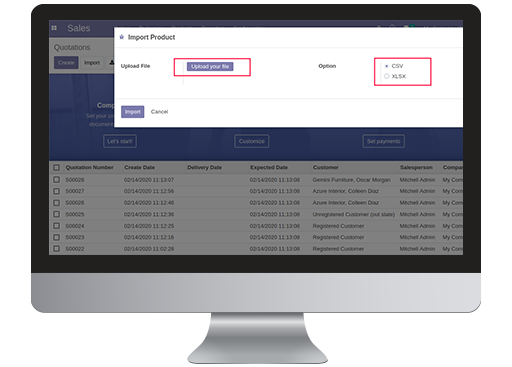
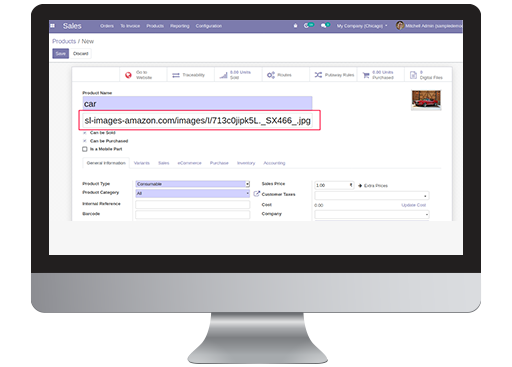
[CHG] Index Changed 'product_import'

diff --git a/product_import/static/description/index.html b/product_import/static/description/index.html
@@ -7,8 +7,8 @@
      style="margin:75px 0;position: relative;color: #000;background-position: center;background: #ffffff;border-bottom: 1px solid #e4e4e4; padding-bottom: 30px;">
     <div class="col-md-7 col-sm-12 col-xs-12" style="padding: 0px">
         <div style=" margin: 0 0 0px;padding: 20px 0 10;font-size: 23px;line-height: 35px;font-weight: 400;color: #000;border-top: 1px solid rgba(255,255,255,0.1);border-bottom: 1px solid rgba(255,255,255,0.11);text-align: left;">
-            <h1 style="font-size: 39px;font-weight: 600;margin: 0px !important;">Import Product From Excel</h1>
-            <h3 style="font-size: 21px;margin-top: 8px;position: relative;"> Import Product Using Excel/CSV</h3>
+            <h1 style="font-size: 39px;font-weight: 600;margin: 0px !important;">Product Image from URL</h1>
+            <h3 style="font-size: 21px;margin-top: 8px;position: relative;"> Product Image from URL and Path</h3>
         </div>
         <h2 style="font-weight: 600;font-size: 1.8rem;margin-top: 15px;">Key Highlights</h2>
         <ul style=" padding: 0 1px; list-style: none; ">
@@ -16,10 +16,7 @@
                     src="images/checked.png" style=" width: 22px; margin-right: 6px; " alt="check">Import product images from path and URL.
             </li>
             <li style="display: flex;align-items: center;padding: 8px 0;font-size: 18px;"><img
-                    src="images/checked.png" style=" width: 22px; margin-right: 6px; " alt="check">Import product barcode.
-            </li>
-            <li style="display: flex;align-items: center;padding: 8px 0;font-size: 18px;"><img
-                    src="images/checked.png" style=" width: 22px; margin-right: 6px; " alt="check">Load image in product using URL.
+                    src="images/checked.png" style=" width: 22px; margin-right: 6px; " alt="check">Load image in product from url field.
             </li>
         </ul>
     </div>
@@ -63,30 +60,20 @@
                         <hr style="margin-top: 0px;margin-bottom: 2%;border: 0;text-align: center;border-top: 3px solid #d21c22;width: 5%;">
                         <h3 class="oe_slogan"
                             style="text-align: center;font-size: 19px;width: 100%;margin: 0;margin-top: 14px;color: #000 !important;opacity: 1 !important;line-height: 31px;font-weight: 400;letter-spacing: .5px;margin-bottom: 21px;">
-                            With the help of this App you can easily load product image from URL in the product, import product image, barcode, name,  type,  and price from XLS/CSV file. You can prepare files with all the above mentioned details, if the product name is already exists then the product will not be created, It is mandatory to use given XLS format to import product
+                            With the help of this App you can easily load product image from URL and Path, You can also load images by pasting url in the field.
                         </h3>
                     </div>
                     <div class="px-3 pt-1 tab-pane fade " id="pills-home1" role="tabpanel"
                          aria-labelledby="
                   pills-home-tab">
                         <!-- feature tab-->
-                        <h2 style="font-weight: 600;text-align: center;width: 100%;">Import Product From Excel</h2>
+                        <h2 style="font-weight: 600;text-align: center;width: 100%;">Product Image from URL</h2>
                         <hr style="margin-top: 0px;margin-bottom: 2%;border: 0;text-align: center;border-top: 3px solid #d21c22;width: 5%;">
                         <ul>
                             <li class="mb8"
                                 style="font-family: Roboto;color: #000;list-style-type: square;font-size: 19px;line-height: 50px; background-color: #3a34380d;padding-left: 20px;border-radius: 7px;list-style: none;">
                                 <img src="images/checked.png"
                                      style=" width: 22px; margin-right: 6px; " alt="check">Import Product image from path and URL.
-                            </li>
-                            <li class="mb8"
-                                style="font-family: Roboto;color: #000;list-style-type: square;font-size: 19px;line-height: 50px; background-color: #3a34380d;padding-left: 20px;border-radius: 7px;list-style: none;">
-                                <img src="images/checked.png"
-                                     style=" width: 22px; margin-right: 6px; " alt="check">Import product Barcode, name, type, price from XLS/CSV file.
-                            </li>
-                            <li class="mb8"
-                                style="font-family: Roboto;color: #000;list-style-type: square;font-size: 19px;line-height: 50px; background-color: #3a34380d;padding-left: 20px;border-radius: 7px;list-style: none;">
-                                <img src="images/checked.png"
-                                     style=" width: 22px; margin-right: 6px; " alt="check">Product with same name will not be created.
                             </li>
                             <li class="mb8"
                                 style="font-family: Roboto;color: #000;list-style-type: square;font-size: 19px;line-height: 50px; background-color: #3a34380d;padding-left: 20px;border-radius: 7px;list-style: none;">
@@ -107,90 +94,15 @@
                                     <div id="demo" class="row carousel slide  mb32"
                                          data-ride="carousel">
                                         <div class="carousel-inner">
-                                            <div class="carousel-item active"
-                                                 style="min-height: 0px;">
-                                                <div class="col-xs-12 col-sm-12 col-md-12 mb16 mt16"
-                                                     style="float: left;">
-                                                    <h3 class="alert"
-                                                        style="font-weight:400;color: #091E42;background: #fff;text-align: left;border-radius: 0; font-size: 18px;">
-                                                        <img src="images/checked.png"
-                                                             style=" width: 22px; margin-right: 6px; "
-                                                             alt="check"> After installation, open sales and go to product tab and open the Import Product.</h3>
-                                                    <div style=""><img
-                                                            class="img img-responsive center-block"
-                                                            style="border-top-left-radius: 10px;border-top-right-radius: 10px;"
-                                                            src="images/product_import.png"></div>
-                                                </div>
-                                            </div>
 
-                                            <div class="carousel-item" style="min-height: 0px;">
+                                            <div class="carousel-item active" style="min-height: 0px;">
                                                 <div class="col-xs-12 col-sm-12 col-md-12 mb16 mt16"
                                                      style="float: left;">
                                                     <h3 class="alert"
                                                         style="font-weight:400;color: #091E42;background: #fff;text-align: left;border-radius: 0; font-size: 18px;">
                                                         <img src="images/checked.png"
                                                              style=" width: 22px; margin-right: 6px; "
-                                                             alt="check"> A wizard will pop-up. Here you can upload the file and click import button for importing product.</h3>
-                                                    <div style=""><img
-                                                            class="img img-responsive center-block"
-                                                            style="border-top-left-radius: 10px;border-top-right-radius: 10px;"
-                                                            src="images/product_import_2.png"></div>
-                                                </div>
-                                            </div>
-
-                                            <div class="carousel-item" style="min-height: 0px;">
-                                                <div class="col-xs-12 col-sm-12 col-md-12 mb16 mt16"
-                                                     style="float: left;">
-                                                    <h3 class="alert"
-                                                        style="font-weight:400;color: #091E42;background: #fff;text-align: left;border-radius: 0; font-size: 18px;">
-                                                        <img src="images/checked.png"
-                                                             style=" width: 22px; margin-right: 6px; "
-                                                             alt="check"> It is mandatory to use given XLS format to import product</h3>
-                                                    <div style=""><img
-                                                            class="img img-responsive center-block"
-                                                            style="border-top-left-radius: 10px;border-top-right-radius: 10px;"
-                                                            src="images/product_import_3.png"></div>
-                                                </div>
-                                            </div>
-
-                                            <div class="carousel-item" style="min-height: 0px;">
-                                                <div class="col-xs-12 col-sm-12 col-md-12 mb16 mt16"
-                                                     style="float: left;">
-                                                    <h3 class="alert"
-                                                        style="font-weight:400;color: #091E42;background: #fff;text-align: left;border-radius: 0; font-size: 18px;">
-                                                        <img src="images/checked.png"
-                                                             style=" width: 22px; margin-right: 6px; "
-                                                             alt="check"> Here you can see the imported product is created in the product.</h3>
-                                                    <div style=""><img
-                                                            class="img img-responsive center-block"
-                                                            style="border-top-left-radius: 10px;border-top-right-radius: 10px;"
-                                                            src="images/product_import_4.png"></div>
-                                                </div>
-                                            </div>
-
-                                            <div class="carousel-item" style="min-height: 0px;">
-                                                <div class="col-xs-12 col-sm-12 col-md-12 mb16 mt16"
-                                                     style="float: left;">
-                                                    <h3 class="alert"
-                                                        style="font-weight:400;color: #091E42;background: #fff;text-align: left;border-radius: 0; font-size: 18px;">
-                                                        <img src="images/checked.png"
-                                                             style=" width: 22px; margin-right: 6px; "
-                                                             alt="check"> We can see the product details we are given.</h3>
-                                                    <div style=""><img
-                                                            class="img img-responsive center-block"
-                                                            style="border-top-left-radius: 10px;border-top-right-radius: 10px;"
-                                                            src="images/product_import_6.png"></div>
-                                                </div>
-                                            </div>
-
-                                            <div class="carousel-item" style="min-height: 0px;">
-                                                <div class="col-xs-12 col-sm-12 col-md-12 mb16 mt16"
-                                                     style="float: left;">
-                                                    <h3 class="alert"
-                                                        style="font-weight:400;color: #091E42;background: #fff;text-align: left;border-radius: 0; font-size: 18px;">
-                                                        <img src="images/checked.png"
-                                                             style=" width: 22px; margin-right: 6px; "
-                                                             alt="check"> We can update product image using URL by changing URL in the given field.</h3>
+                                                             alt="check"> We can add the product image by updating URL in the given field.</h3>
                                                     <div style=""><img
                                                             class="img img-responsive center-block"
                                                             style="border-top-left-radius: 10px;border-top-right-radius: 10px;"

diff --git a/product_import/__manifest__.py b/product_import/__manifest__.py
@@ -21,13 +21,10 @@
 #############################################################################
 
 {
-    'name': 'Import Product From Excel',
-    'summary': 'Import Product From Excel or CSV File, Import Product Image From URL and Path',
+    'name': 'Product Image from URL',
+    'summary': 'Product Images from Web URL and Path',
     'version': '13.0.1.0.0',
-    'description': """Import product from excel,XLSX,CSV,Import product image from Excel,Import product from URL,
-		      Import product from path,import product details usinf xlsx,import product,odoo13 sales,odoo13,
-		      odoo13 xlsx,odoo13,mport product barcode from csv,Import product price from csv,Import product type from csv,
-		      create product from csv,Import product from csv""",
+    'description': """Product Images from Web URL, Product Images from path, local""",
     'author': 'Cybrosys Techno Solutions',
     'company': 'Cybrosys Techno Solutions',
     'maintainer': 'Cybrosys Techno Solutions',

diff --git a/product_import/README.rst b/product_import/README.rst
@@ -1,6 +1,6 @@
-Import Product From Excel
-=========================
-Using the application, the user can easily load product image from URL in the product, import product image, barcode, name, type, and price from XLS/CSV file.
+Product Image from URL
+======================
+Product Image from URL and Path
 
 Configuration
 =============
